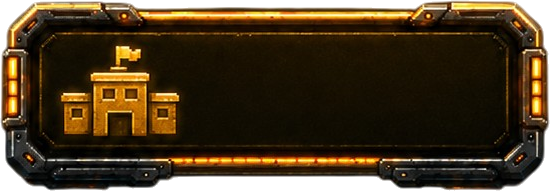
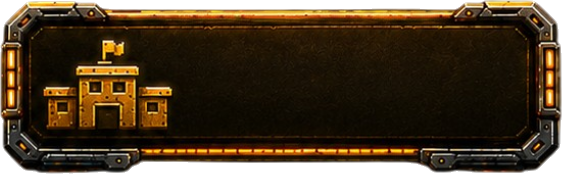
\ Refresh web menu controls\

diff --git a/public/main-menu-web.css b/public/main-menu-web.css
@@ -285,12 +285,13 @@ body.game-running.web-ui-active .web-ui {
 .main-menu-web__action[data-menu-action='ranking'],
 .main-menu-web__action[data-menu-action='headquarters'],
 .main-menu-web__action[data-menu-action='socials'],
+.main-menu-web__action[data-menu-action='settings'],
 .main-menu-web__action[data-menu-action='logout'] {
   background-color: transparent;
   background-image: var(--bc-menu-button-image);
   background-position: center;
   background-repeat: no-repeat;
-  background-size: 100% 100%;
+  background-size: contain;
   border-color: transparent;
   padding-left: 29%;
   padding-right: 14%;
@@ -322,6 +323,11 @@ body.game-running.web-ui-active .web-ui {
   --bc-menu-button-active-image: url('/assets/menu-web/socials-active.png');
 }
 
+.main-menu-web__action[data-menu-action='settings'] {
+  --bc-menu-button-image: url('/assets/menu-web/settings.png');
+  --bc-menu-button-active-image: url('/assets/menu-web/settings-active.png');
+}
+
 .main-menu-web__action[data-menu-action='logout'] {
   --bc-menu-button-image: url('/assets/menu-web/logout.png');
   --bc-menu-button-active-image: url('/assets/menu-web/logout-active.png');
@@ -337,6 +343,8 @@ body.game-running.web-ui-active .web-ui {
 .main-menu-web__action[data-menu-action='headquarters'].is-focused,
 .main-menu-web__action[data-menu-action='socials']:hover,
 .main-menu-web__action[data-menu-action='socials'].is-focused,
+.main-menu-web__action[data-menu-action='settings']:hover,
+.main-menu-web__action[data-menu-action='settings'].is-focused,
 .main-menu-web__action[data-menu-action='logout']:hover,
 .main-menu-web__action[data-menu-action='logout'].is-focused {
   background-color: transparent;
